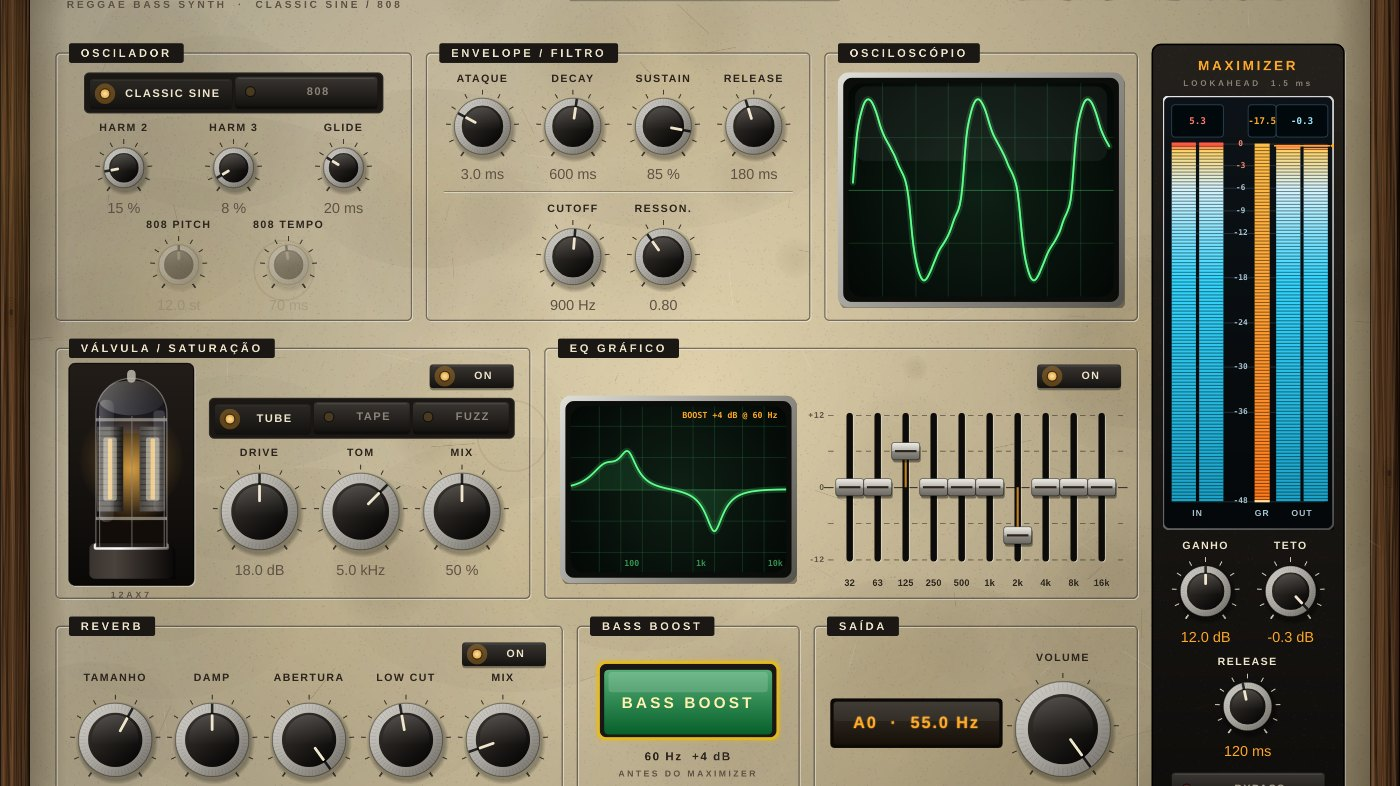
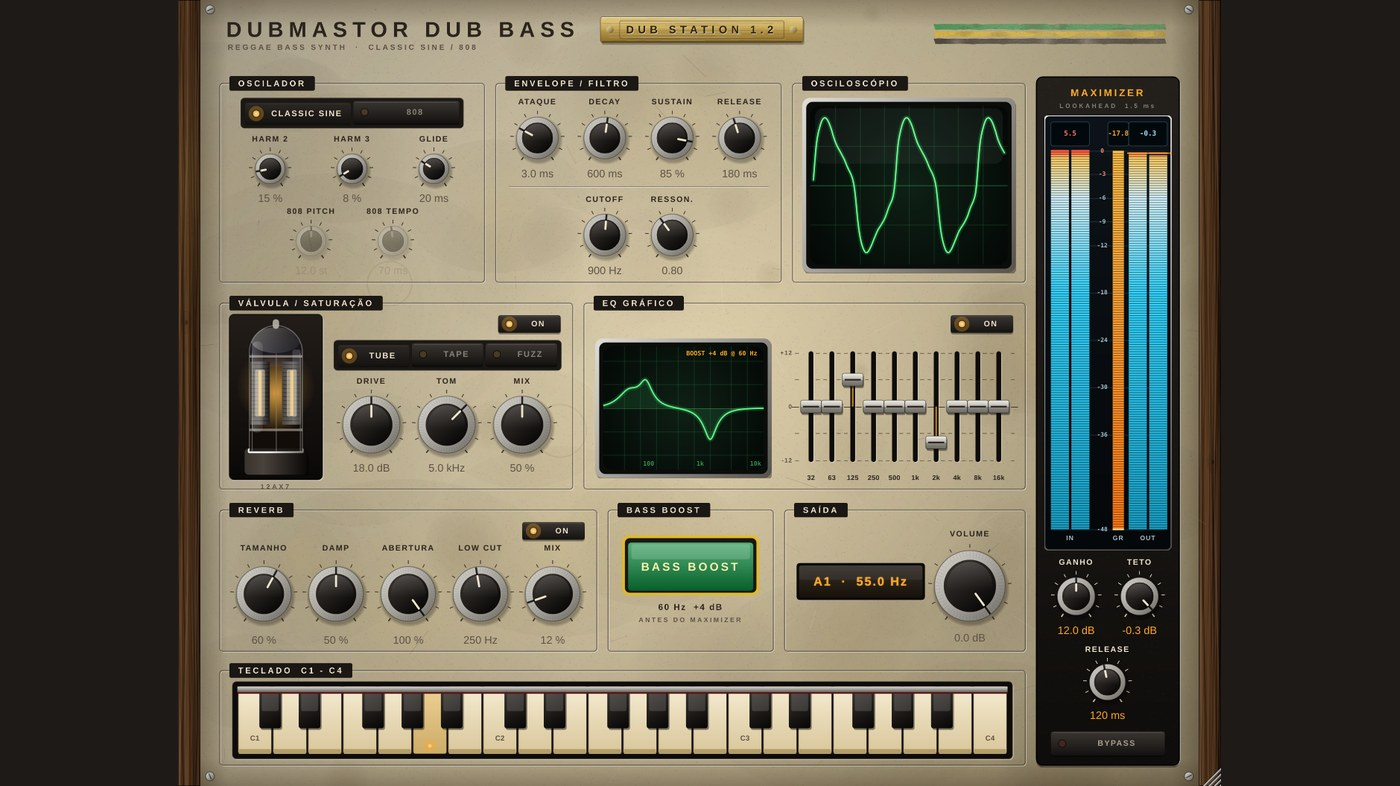
Dub Bass 1.2: teclado C1-C4 no padrão Dub Station
- Teclas de marfim e baquelite, barra cromada com feltro vermelho e lâmpada âmbar
- Toca clicando (velocity pela posição na tecla) e acende com o MIDI da DAW
- Display da nota na mesma numeração do teclado (55 Hz = A1)
- Site e README: Dub Bass 1.2, imagem nova e links da release DubBass-1.2

Claude-Session: https://claude.ai/code/session_01DJAeyYx8bE3tBpWMHDuGKq

diff --git a/site/index.html b/site/index.html
@@ -286,20 +286,21 @@
         </article>
 
         <article class="card">
-          <img class="shot" src="img/dubbass.jpg" alt="Interface do Dub Bass: painel creme com laterais de madeira e plaqueta de latão; seções de oscilador, envelope e filtro, osciloscópio verde, válvula 12AX7 acesa ao lado dos knobs de saturação, EQ gráfico com faders, reverb, botão verde de bass boost e, na lateral direita, o maximizer com VU digital" width="1400" height="786" loading="lazy">
+          <img class="shot" src="img/dubbass.jpg" alt="Interface do Dub Bass: painel creme com laterais de madeira e plaqueta de latão; seções de oscilador, envelope e filtro, osciloscópio verde, válvula 12AX7 acesa ao lado dos knobs de saturação, EQ gráfico com faders, reverb, botão verde de bass boost, teclado de marfim de C1 a C4 e, na lateral direita, o maximizer com VU digital" width="1400" height="786" loading="lazy">
           <div class="body">
-            <h3>Dub Bass <small>1.1</small></h3>
+            <h3>Dub Bass <small>1.2</small></h3>
             <p>Sintetizador de baixo de reggae: a senoide redonda do roots clássico com harmônicos, ou o 808 com o pitch caindo. Mono, com glide entre as notas.</p>
             <ul>
               <li>Modos Classic Sine (harmônicos 2 e 3) e 808 (drop de pitch e saturação)</li>
               <li>Saturação Tube / Tape / Fuzz com válvula animada que muda de cor conforme esquenta</li>
               <li>EQ gráfico de 10 bandas, reverb com low cut e BASS BOOST de +4 dB em 60 Hz</li>
               <li>Maximizer na lateral com VU digital estilo Ozone (entrada, GR e saída) e BYPASS</li>
+              <li>Teclado de C1 a C4 no padrão Dub Station: toca clicando e acende com o MIDI</li>
             </ul>
             <div class="formats">Instrumento · Windows: VST3 + standalone · Mac: VST3, AU + standalone (Intel e Apple Silicon)</div>
             <div class="dl">
-              <a class="btn" href="https://github.com/dubmastor/DubMastor-DubStation-/releases/download/DubBass-1.1/DubBass-Windows.zip">⬇ Windows<span>VST3 · zip</span></a>
-              <a class="btn alt" href="https://github.com/dubmastor/DubMastor-DubStation-/releases/download/DubBass-1.1/DubBass-macOS.zip">⬇ Mac<span>VST3 + AU · zip</span></a>
+              <a class="btn" href="https://github.com/dubmastor/DubMastor-DubStation-/releases/download/DubBass-1.2/DubBass-Windows.zip">⬇ Windows<span>VST3 · zip</span></a>
+              <a class="btn alt" href="https://github.com/dubmastor/DubMastor-DubStation-/releases/download/DubBass-1.2/DubBass-macOS.zip">⬇ Mac<span>VST3 + AU · zip</span></a>
             </div>
           </div>
         </article>

diff --git a/DubBass/Source/PluginEditor.cpp b/DubBass/Source/PluginEditor.cpp
@@ -799,11 +799,98 @@ void CrtEqCurve::paint (juce::Graphics& g)
 }
 
 //==============================================================================
+DubKeyboard::DubKeyboard (juce::MidiKeyboardState& st)
+    : juce::MidiKeyboardComponent (st, juce::MidiKeyboardComponent::horizontalKeyboard)
+{
+    setAvailableRange (24, 60);          // C1..C4: a região do baixo (22 teclas brancas)
+    setOctaveForMiddleC (4);             // nota 60 = C4
+    setScrollButtonsVisible (false);
+    setWantsKeyboardFocus (false);
+    setMidiChannel (1);
+    setVelocity (0.8f, true);            // mais embaixo na tecla = mais forte
+    setBlackNoteLengthProportion (0.62f);
+    setBlackNoteWidthProportion (0.62f);
+    setColour (whiteNoteColourId, juce::Colour (0xff0e0c0a));   // fundo do encaixe
+    setColour (keySeparatorLineColourId, juce::Colours::transparentBlack);
+    setColour (shadowColourId, juce::Colours::transparentBlack);
+}
+
+static void keyLamp (juce::Graphics& g, juce::Point<float> c)
+{
+    const auto lamp = juce::Rectangle<float> (7.0f, 7.0f).withCentre (c);
+    g.setColour (colours::amber.withAlpha (0.35f));
+    g.fillEllipse (lamp.expanded (4.0f));
+    juce::ColourGradient lit (juce::Colour (0xffffe3a0), lamp.getCentreX(), lamp.getCentreY(),
+                              colours::amber.darker (0.2f), lamp.getRight(), lamp.getBottom(), true);
+    g.setGradientFill (lit);
+    g.fillEllipse (lamp);
+}
+
+void DubKeyboard::drawWhiteNote (int note, juce::Graphics& g, juce::Rectangle<float> area, bool isDown, bool isOver,
+                                 juce::Colour, juce::Colour)
+{
+    auto r = area.reduced (1.0f, 0.0f).withTrimmedTop (isDown ? 3.0f : 0.0f);   // tecla afundada
+    const float rad = 3.0f;
+    juce::ColourGradient iv (juce::Colour (isDown ? 0xffe9d9ae : 0xfff6ecd2).brighter (isOver && ! isDown ? 0.04f : 0.0f), r.getX(), r.getY(),
+                             juce::Colour (isDown ? 0xffc2ad78 : 0xffd9c69a), r.getX(), r.getBottom(), false);
+    g.setGradientFill (iv);
+    g.fillRoundedRectangle (r, rad);
+    g.setColour (juce::Colour (0xff3d3124).withAlpha (0.8f));
+    g.drawRoundedRectangle (r, rad, 1.0f);
+    if (! isDown)
+    {
+        g.setColour (juce::Colour (0xffb39d6a));                                  // frente da tecla
+        g.fillRect (r.withTop (r.getBottom() - 6.0f).reduced (1.0f, 0.0f));
+    }
+    else
+    {
+        g.setColour (colours::amber.withAlpha (0.20f));
+        g.fillRoundedRectangle (r, rad);
+        keyLamp (g, { r.getCentreX(), r.getBottom() - 10.0f });
+    }
+    if (note % 12 == 0)                                                           // C1, C2, C3, C4
+    {
+        g.setColour (isDown ? juce::Colour (0xff6b3f05) : colours::inkSoft);
+        g.setFont (stencil (10.0f, 0.02f));
+        g.drawText (juce::MidiMessage::getMidiNoteName (note, true, true, 4),
+                    r.withTop (r.getBottom() - (isDown ? 34.0f : 26.0f)).withHeight (14.0f), juce::Justification::centred);
+    }
+}
+
+void DubKeyboard::drawBlackNote (int, juce::Graphics& g, juce::Rectangle<float> area, bool isDown, bool isOver, juce::Colour)
+{
+    auto r = area.withTrimmedTop (isDown ? 2.0f : 0.0f);
+    const float rad = 3.0f;
+    g.setColour (juce::Colours::black.withAlpha (0.45f));
+    g.fillRoundedRectangle (r.translated (1.5f, 2.0f), rad);
+    juce::ColourGradient bk (juce::Colour (isDown ? 0xff2a2520 : 0xff3d3833).brighter (isOver && ! isDown ? 0.12f : 0.0f), r.getX(), r.getY(),
+                             juce::Colour (0xff070605), r.getRight(), r.getBottom(), false);
+    g.setGradientFill (bk);
+    g.fillRoundedRectangle (r, rad);
+    g.setColour (juce::Colours::white.withAlpha (isDown ? 0.05f : 0.14f));
+    g.fillRoundedRectangle (r.reduced (3.0f, 2.0f).withHeight (r.getHeight() * 0.55f), 2.0f);
+    if (isDown)
+        keyLamp (g, { r.getCentreX(), r.getBottom() - 8.0f });
+}
+
+void DubKeyboard::paint (juce::Graphics& g)
+{
+    MidiKeyboardComponent::paint (g);
+    auto b = getLocalBounds().toFloat();
+    auto bar = b.withHeight (7.0f);                                               // barra cromada
+    juce::ColourGradient chrome (juce::Colour (0xffd8d6d0), bar.getX(), bar.getY(), juce::Colour (0xff5e5b55), bar.getX(), bar.getBottom(), false);
+    g.setGradientFill (chrome);
+    g.fillRect (bar);
+    g.setColour (juce::Colour (0xff5a1414));                                      // feltro vermelho
+    g.fillRect (b.withY (bar.getBottom()).withHeight (2.0f));
+}
+
+//==============================================================================
 DubBassPanel::DubBassPanel (DubBassAudioProcessor& p)
     : proc (p),
       modeKeys (*p.apvts.getParameter (ParamID::mode), { "CLASSIC SINE", "808" }),
       drvTypeKeys (*p.apvts.getParameter (ParamID::drvType), { "TUBE", "TAPE", "FUZZ" }),
-      eqCurve (p), scope (p), meter (p)
+      eqCurve (p), scope (p), keyboard (p.keyboardState), meter (p)
 {
     setLookAndFeel (&lnf);
 
@@ -855,6 +942,7 @@ DubBassPanel::DubBassPanel (DubBassAudioProcessor& p)
 
     setupKnob (output, ParamID::output, "VOLUME");
     addAndMakeVisible (scope);
+    addAndMakeVisible (keyboard);
 
     addAndMakeVisible (meter);
     setupKnob (maxGain,    ParamID::maxGain,    "GANHO",   true);
@@ -863,7 +951,7 @@ DubBassPanel::DubBassPanel (DubBassAudioProcessor& p)
     setupToggle (maxBypass, ParamID::maxBypass, "BYPASS");
     maxBypass.button.getProperties().set ("redLamp", true);
 
-    setSize (1300, 840);
+    setSize (1300, 980);
     timerCallback();
     startTimerHz (30);
 }
@@ -1201,6 +1289,18 @@ void DubBassPanel::renderBackground()
     section (revPanel,   "REVERB");
     section (boostPanel, "BASS BOOST");
     section (outPanel,   juce::String::fromUTF8 ("SAÍDA"));
+    section (keysPanel,  "TECLADO  C1 - C4");
+
+    // trilho escuro onde o teclado está encaixado
+    {
+        auto rail = keyboard.getBounds().toFloat().expanded (6.0f, 6.0f);
+        g.setColour (juce::Colours::white.withAlpha (0.45f));
+        g.drawRoundedRectangle (rail.translated (1, 1), 5.0f, 1.0f);
+        g.setColour (juce::Colour (0xff0e0c0a));
+        g.fillRoundedRectangle (rail, 5.0f);
+        g.setColour (colours::ink.withAlpha (0.6f));
+        g.drawRoundedRectangle (rail, 5.0f, 1.2f);
+    }
 
     // linha divisória do envelope / filtro
     {
@@ -1311,7 +1411,7 @@ void DubBassPanel::paint (juce::Graphics& g)
     {
         const int n = juce::roundToInt (note);
         const double hz = 440.0 * std::pow (2.0, ((double) note - 69.0) / 12.0);
-        t = juce::MidiMessage::getMidiNoteName (n, true, true, 3) + juce::String::fromUTF8 ("  ·  ") + juce::String (hz, 1) + " Hz";
+        t = juce::MidiMessage::getMidiNoteName (n, true, true, 4) + juce::String::fromUTF8 ("  ·  ") + juce::String (hz, 1) + " Hz";
     }
     glowText (g, noteDisplay.toFloat(), t, 17.0f, note >= 0.0f ? 1.0f : 0.35f);
 }
@@ -1334,7 +1434,7 @@ void DubBassPanel::resized()
     drvPanel   = { x0,  378, 440, 232 };
     eqPanel    = { 506, 378, maxPanel.getX() - 14 - 506, 232 };
 
-    revPanel   = { x0,  636, 470, H - 636 - 26 };
+    revPanel   = { x0,  636, 470, 176 };
     boostPanel = { 536, 636, 206, revPanel.getHeight() };
     outPanel   = { 756, 636, maxPanel.getX() - 14 - 756, revPanel.getHeight() };
 
@@ -1408,6 +1508,11 @@ void DubBassPanel::resized()
         auto left = a.removeFromLeft (a.getWidth() - 110);
         noteDisplay = left.withSizeKeepingCentre (left.getWidth() - 8, 40).translated (0, -6);
         placeKnob (output, a);
+    }
+    {   // TECLADO
+        keysPanel = { x0, 836, maxPanel.getX() - 14 - x0, H - 836 - 26 };
+        keyboard.setBounds (keysPanel.reduced (22, 0).withTrimmedTop (20).withTrimmedBottom (14));
+        keyboard.setKeyWidth ((float) keyboard.getWidth() / 22.0f);
     }
     {   // MAXIMIZER
         auto a = maxPanel.reduced (10, 0);

diff --git a/DubBass/Source/PluginEditor.h b/DubBass/Source/PluginEditor.h
@@ -94,6 +94,21 @@ private:
 };
 
 //==============================================================================
+// Teclado no padrão Dub Station: marfim envelhecido, pretas de baquelite, barra cromada
+// com feltro vermelho e lâmpada âmbar nas teclas tocadas (clique ou MIDI da DAW)
+class DubKeyboard : public juce::MidiKeyboardComponent
+{
+public:
+    explicit DubKeyboard (juce::MidiKeyboardState& s);
+    void paint (juce::Graphics&) override;
+protected:
+    void drawWhiteNote (int note, juce::Graphics&, juce::Rectangle<float> area, bool isDown, bool isOver,
+                        juce::Colour lineColour, juce::Colour textColour) override;
+    void drawBlackNote (int note, juce::Graphics&, juce::Rectangle<float> area, bool isDown, bool isOver,
+                        juce::Colour noteFillColour) override;
+};
+
+//==============================================================================
 // Painel com todo o layout no tamanho base; o editor o escala para a janela redimensionável
 class DubBassPanel : public juce::Component, private juce::Timer
 {
@@ -156,6 +171,8 @@ private:
     Knob output;
     // OSCILOSCÓPIO
     CrtScope scope;
+    // TECLADO
+    DubKeyboard keyboard;
     // MAXIMIZER (lateral direita)
     OzoneMeter meter;
     Knob maxGain, maxCeiling, maxRelease;
@@ -163,7 +180,7 @@ private:
 
     juce::Image background;
     juce::Rectangle<int> woodL, woodR, plate;
-    juce::Rectangle<int> oscPanel, envPanel, scopePanel, drvPanel, eqPanel, revPanel, boostPanel, outPanel, maxPanel;
+    juce::Rectangle<int> oscPanel, envPanel, scopePanel, drvPanel, eqPanel, revPanel, boostPanel, outPanel, maxPanel, keysPanel;
     juce::Rectangle<int> noteDisplay, tubeArea, faderArea;
 
     JUCE_DECLARE_NON_COPYABLE_WITH_LEAK_DETECTOR (DubBassPanel)
@@ -180,7 +197,7 @@ public:
         setResizable (true, true);
         setResizeLimits (w / 2, h / 2, w * 3 / 2, h * 3 / 2);
         if (auto* c = getConstrainer()) c->setFixedAspectRatio ((double) w / (double) h);
-        setSize (w * 9 / 10, h * 9 / 10);
+        setSize (w * 4 / 5, h * 4 / 5);
     }
     void resized() override
     {

diff --git a/DubBass/Source/PluginProcessor.cpp b/DubBass/Source/PluginProcessor.cpp
@@ -158,6 +158,7 @@ bool DubBassAudioProcessor::isBusesLayoutSupported (const BusesLayout& layouts) 
 void DubBassAudioProcessor::prepareToPlay (double sampleRate, int samplesPerBlock)
 {
     currentSampleRate = sampleRate;
+    keyboardState.reset();
     const int  nCh   = juce::jlimit (1, 2, getTotalNumOutputChannels());
     const auto block = (juce::uint32) juce::jmax (1, samplesPerBlock);
 
@@ -392,6 +393,9 @@ void DubBassAudioProcessor::processBlock (juce::AudioBuffer<float>& buffer, juce
 
     if (numSamples == 0 || numChannels == 0)
         return;
+
+    // teclas clicadas na interface entram no MIDI; o MIDI da DAW acende as teclas
+    keyboardState.processNextMidiBuffer (midi, 0, numSamples, true);
 
     // 1) Sintetizador mono com MIDI sample-accurate
     updateVoiceParams();

diff --git a/DubBass/Source/PluginProcessor.h b/DubBass/Source/PluginProcessor.h
@@ -97,6 +97,7 @@ public:
 
     juce::AudioProcessorValueTreeState apvts;
     ScopeFifo scopeFifo;
+    juce::MidiKeyboardState keyboardState;   // teclado da interface: toca e acende com o MIDI
     std::atomic<float> gainReductionDb { 0.0f };
 
     // medidores para a interface (dBFS de pico por bloco)

diff --git a/README.md b/README.md
@@ -9,7 +9,7 @@ Plugins de dub por **DubMastor**, em VST3 (Windows e Mac) e AU (Mac). Feitos e t
 | **DubMastor Big Knob 3.2** | Estação de dub: filtro big knob estilo King Tubby (com bypass), eco de fita com cabeçotes, presets de EQ e liga/desliga, sirene de dub, VUs e maximizer | [⬇ macOS](https://github.com/dubmastor/DubMastor-DubStation-/releases/latest/download/DubMastorBigKnob-macOS.zip) | [⬇ Windows](https://github.com/dubmastor/DubMastor-DubStation-/releases/latest/download/DubMastorBigKnob-Windows.zip) | [BigKnob/](BigKnob/) |
 | **DubMastor Roots Keys 2.2** | Instrumento: piano estilo Korg M1 e órgão estilo Hammond com Leslie, eco de fita FitaEco, flanger dub, maximizer, VUs e teclado que acende com o MIDI; aba **Dub Chords** para montar o riddim e arrastar o MIDI para a DAW; visual de teclado anos 80 no piano e de madeira e marfim no órgão | [⬇ macOS](https://github.com/dubmastor/DubMastor-DubStation-/releases/download/RootsKeys-2.2/DubMastorRootsKeys-macOS.zip) | [⬇ Windows](https://github.com/dubmastor/DubMastor-DubStation-/releases/download/RootsKeys-2.2/DubMastorRootsKeys-Windows.zip) | [RootsKeys/](RootsKeys/) |
 | **DubMastor Dub Chords 1.2** | Instrumento / gerador MIDI: escolha até 4 acordes (teclado mecânico, maior/menor, inversões com sugestão automática, contador de compassos) e ele toca o skank de piano M1 com as duas mãos e o bubble de Hammond no andamento da DAW; arraste o MIDI colorido por acorde para a timeline | [⬇ macOS](https://github.com/dubmastor/DubMastor-DubStation-/releases/download/DubChords-1.2/DubMastorDubChords-macOS.zip) | [⬇ Windows](https://github.com/dubmastor/DubMastor-DubStation-/releases/download/DubChords-1.2/DubMastorDubChords-Windows.zip) | [DubChords/](DubChords/) |
-| **Dub Bass - Dub Station 1.1** | Instrumento: baixo de reggae em senoide com harmônicos ou 808, saturação com válvula animada, EQ gráfico, reverb, bass boost em 60 Hz e maximizer com VU digital estilo Ozone, no visual do Dub Chords | [⬇ macOS](https://github.com/dubmastor/DubMastor-DubStation-/releases/download/DubBass-1.1/DubBass-macOS.zip) | [⬇ Windows](https://github.com/dubmastor/DubMastor-DubStation-/releases/download/DubBass-1.1/DubBass-Windows.zip) | [DubBass/](DubBass/) |
+| **Dub Bass - Dub Station 1.2** | Instrumento: baixo de reggae em senoide com harmônicos ou 808, teclado C1–C4 que acende com o MIDI, saturação com válvula animada, EQ gráfico, reverb, bass boost em 60 Hz e maximizer com VU digital estilo Ozone, no visual do Dub Chords | [⬇ macOS](https://github.com/dubmastor/DubMastor-DubStation-/releases/download/DubBass-1.2/DubBass-macOS.zip) | [⬇ Windows](https://github.com/dubmastor/DubMastor-DubStation-/releases/download/DubBass-1.2/DubBass-Windows.zip) | [DubBass/](DubBass/) |
 | **DubMastor Dub Drums 1.0** | Instrumento / gerador MIDI: esqueleto da bateria de reggae (One Drop, Rockers, Steppa) com chave de baterista (Style Scott, Santa Davis, Carlton Barrett) que muda o balanço e as viradas, virada de intro, preview com bateria interna, MIDI colorido por compasso e mapa de notas para qualquer kit | [⬇ macOS](https://github.com/dubmastor/DubMastor-DubStation-/releases/download/DubDrums-1.0/DubMastorDubDrums-macOS.zip) | [⬇ Windows](https://github.com/dubmastor/DubMastor-DubStation-/releases/download/DubDrums-1.0/DubMastorDubDrums-Windows.zip) | [DubDrums/](DubDrums/) |
 | **Mastor Bass Machine MBM-710 1.0** | Instrumento / gerador MIDI: sugestões de linha de baixo nos estilos de Family Man, Flabba Holt e Sagittarius (Derrick Barnett) sobre até 4 acordes; PLAY de preview com os timbres do Dub Bass e osciloscópio; arraste o MIDI para a timeline ou exporte o .mid | [⬇ macOS](https://github.com/dubmastor/DubMastor-DubStation-/releases/download/BassMachine-1.0/MastorBassMachine-macOS.zip) | [⬇ Windows](https://github.com/dubmastor/DubMastor-DubStation-/releases/download/BassMachine-1.0/MastorBassMachine-Windows.zip) | [BassMachine/](BassMachine/) |
 | **Mastor Dub Horns 1.1** | Instrumento: naipe de metais anos 70 (trompete, flugel, saxes e trombone) com harmonia no tom, timbres de estúdio jamaicano, Mastor Tape Echo, EQ gráfico de 10 bandas com Filtro Tubby e frases MIDI (ataques estilo Dean Fraser e introduções) com notas escolhidas por você; também [toca no navegador](https://dubmastor.github.io/DubMastor-DubStation-/horns/) | [⬇ macOS](https://github.com/dubmastor/DubMastor-DubStation-/releases/download/MastorDubHorns-1.1/MastorDubHorns-macOS.zip) | [⬇ Windows](https://github.com/dubmastor/DubMastor-DubStation-/releases/download/MastorDubHorns-1.1/MastorDubHorns-Windows.zip) | [MastorDubHorns/](MastorDubHorns/) |

diff --git a/DubBass/README.md b/DubBass/README.md
@@ -1,4 +1,4 @@
-# Dub Bass - Dub Station 1.1
+# Dub Bass - Dub Station 1.2
 
 Instrumento de baixo de reggae (VST3 / AU / Standalone) da linha **DubMastor · Dub Station**, no mesmo visual do Dub Chords: painel creme envelhecido, laterais de madeira, plaqueta de latão com a versão, knobs de baquelite e lâmpadas âmbar.
 
@@ -24,6 +24,7 @@ OSCILADOR (Classic Sine + harmônicos | 808) → FILTRO → ENVELOPE → VÁLVUL
 | **Reverb** | ON, Tamanho, Damp, Abertura, Low Cut (o grave fica seco) e Mix |
 | **Bass Boost** | Botão verde: +4 dB em 60 Hz, antes do maximizer |
 | **Saída** | Display âmbar com a nota tocando (nome e Hz) e Volume |
+| **Teclado** | C1 a C4 no padrão Dub Station (marfim, baquelite, barra cromada com feltro vermelho): toca clicando (mais embaixo na tecla = mais forte) e acende com lâmpada âmbar nas notas que chegam da DAW |
 | **Maximizer** (lateral direita) | VU digital estilo Ozone: entrada L/R, redução de ganho e saída L/R, com leituras numéricas, pico retido e a marca do teto. Ganho, Teto, Release e BYPASS (com lâmpada vermelha; a latência continua a mesma) |
 
 Mono/legato: no Classic Sine as notas ligadas deslizam com o glide; no 808 cada nota reataca o envelope e o drop de pitch. Pitch bend ±2 semitons. Duplo clique volta qualquer controle ao padrão. A janela é redimensionável.

diff --git a/DubBass/RELEASE_NOTES.md b/DubBass/RELEASE_NOTES.md
@@ -1,8 +1,12 @@
-## Dub Bass - Dub Station 1.1 🟢🟡⚫
+## Dub Bass - Dub Station 1.2 🟢🟡⚫
 
 Baixo de reggae para a linha Dub Station: a senoide redonda do roots clássico com harmônicos, ou o 808 com o pitch caindo.
 
-**Novo na 1.1**
+**Novo na 1.2**
+- **Teclado** de C1 a C4 no padrão Dub Station: teclas de marfim e baquelite, barra cromada com feltro vermelho e lâmpada âmbar nas teclas tocadas. Toca clicando e acende com o MIDI da DAW
+- Display da nota na mesma numeração do teclado (55 Hz = A1)
+
+**Na 1.1**
 - Visual da linha, igual ao Dub Chords: painel creme, madeira, plaqueta de latão com a versão, knobs de baquelite e lâmpadas âmbar
 - **Maximizer na lateral direita** com VU digital estilo Ozone: entrada L/R, redução de ganho e saída L/R, leituras numéricas, pico retido e a marca do teto; BYPASS com lâmpada vermelha
 - **Válvula 12AX7 animada** na saturação: esquenta com o DRIVE e com o sinal e muda de cor (vermelho → laranja → âmbar → branco quente, com brilho azul no limite)
